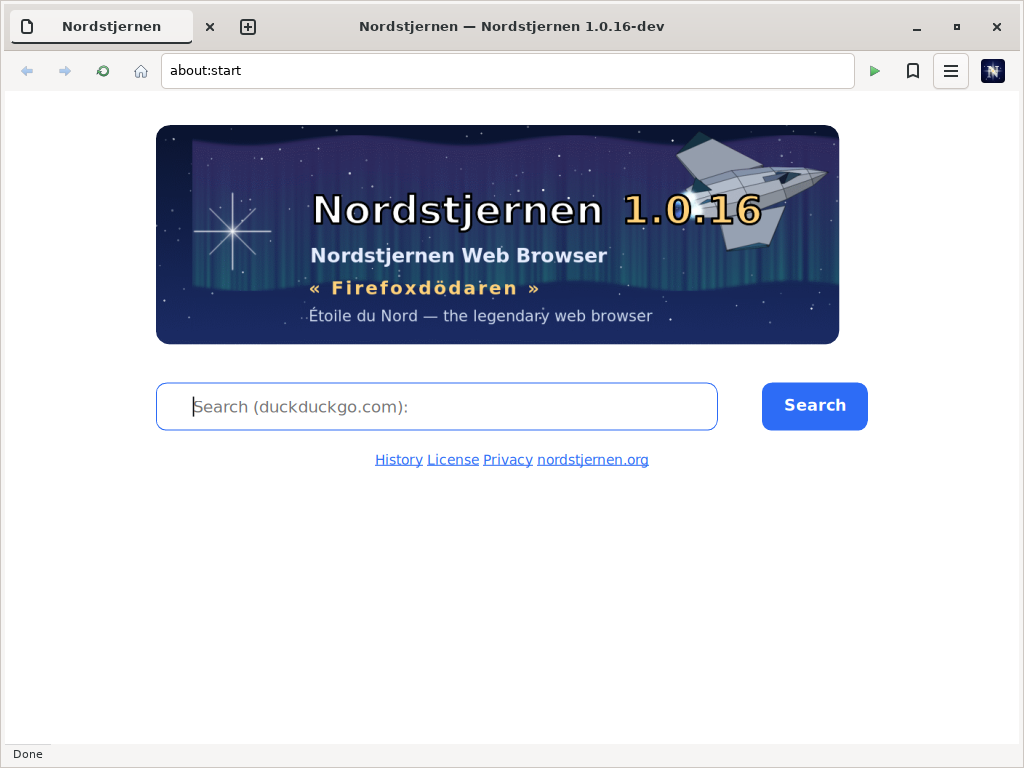
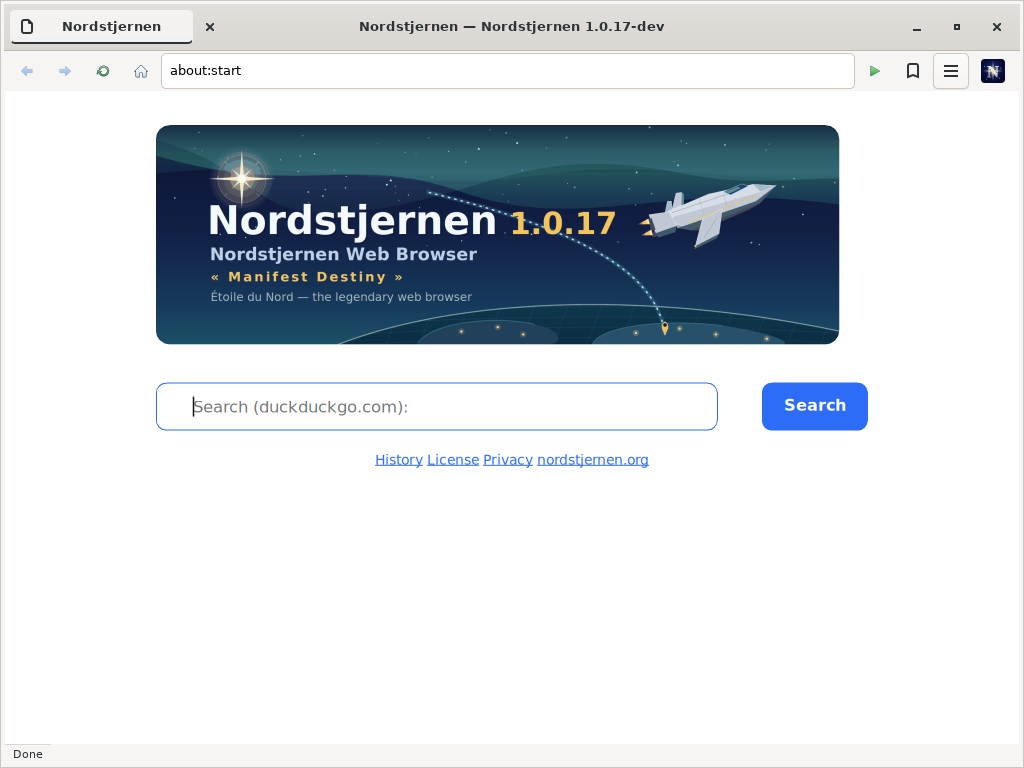
Refresh the README screenshot with the Manifest Destiny splash
Recapture docs/screenshot.png from a live build of the GTK shell on
about:start, now showing the redesigned splash, and update the README
caption to match.

Changed region(s): [[0.1562, 0.1562, 0.8438, 0.4688], [0.2188, 0.0312, 0.25, 0.0625]]

diff --git a/README.md b/README.md
@@ -15,7 +15,7 @@ Runs on the platforms [Windows](https://apps.microsoft.com/detail/9nw8t7w5z4pl) 
 
 Nordstjernen has no JIT so it is much more secure, and can still be fast enough. It ships no telemetry of any kind.
 
-![Nordstjernen's about:start start page — the Étoile du Nord splash](docs/screenshot.png)   
+![Nordstjernen's about:start start page — the Manifest Destiny splash](docs/screenshot.png)   
 
 <img src="docs/nordstjernen-now.png" alt="Nordstjernen Now!" width="140">
 
